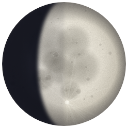
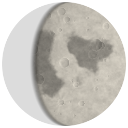
Secret question, private test link, remembered prize; realistic moon; tidy numbers
Claude-Session: https://claude.ai/code/session_015z9AyawwLQyG9LCsoSgoHm

diff --git a/demo/index.html b/demo/index.html
@@ -76,7 +76,7 @@ h2{font:700 clamp(28px,6vw,46px)/1.12 var(--head);letter-spacing:-.025em;text-wr
 .hint i{width:6px;height:6px;border-radius:50%;background:var(--gold);box-shadow:0 0 10px var(--gold);animation:blink 2s infinite}
 
 /* numbers */
-.stats{display:grid;grid-template-columns:repeat(auto-fit,minmax(170px,1fr));gap:12px;text-align:left}
+.stats{display:grid;grid-template-columns:repeat(3,minmax(0,1fr));gap:12px;text-align:left}
 .stat{border:1px solid var(--line);border-radius:18px;padding:16px 18px;background:rgba(255,255,255,.03);display:grid;gap:2px;min-width:0}
 .stat b{font:700 clamp(22px,4.4vw,32px)/1.15 var(--head);letter-spacing:-.02em;font-variant-numeric:tabular-nums;word-break:keep-all}
 .stat span{color:var(--muted);font-size:14px}
@@ -157,6 +157,15 @@ h2{font:700 clamp(28px,6vw,46px)/1.12 var(--head);letter-spacing:-.025em;text-wr
 .shprev.loading::after{content:"Making it…";font:600 22px var(--script);color:var(--muted)}
 .shprev .rec{font:800 34px var(--head);color:var(--gold)}.shprev.loading:has(.rec)::after{content:none}
 
+/* question gate and test mode */
+.gfield{display:flex;gap:10px;width:min(420px,100%)}
+.gfield input{flex:1;min-width:0;border:1px solid var(--line);background:rgba(5,12,34,.6);color:var(--ink);border-radius:99px;padding:0 20px;font:600 16px var(--body);min-height:50px}
+.gfield input:focus{outline:2px solid var(--gold);outline-offset:2px}
+.gerr{color:#FFB3C7;font-weight:600}
+.gate.shake .gfield{animation:shake .4s}
+@keyframes shake{20%,60%{transform:translateX(-8px)}40%,80%{transform:translateX(8px)}}
+.testbar{position:fixed;left:50%;bottom:calc(10px + env(safe-area-inset-bottom,0px));transform:translateX(-50%);z-index:36;background:#3A2A06;color:#FFE3A3;border:1px solid rgba(255,210,122,.5);border-radius:99px;padding:6px 14px;font:600 12px var(--body);white-space:nowrap;pointer-events:none}
+
 /* end */
 .endtitle{font:700 clamp(54px,14vw,110px)/1.1 var(--script);background:linear-gradient(180deg,#FFF0C8,#FFD27A 50%,#FF9CC8);-webkit-background-clip:text;background-clip:text;color:transparent;filter:drop-shadow(0 6px 30px rgba(255,200,120,.25));padding:0 .15em}
 
@@ -164,7 +173,7 @@ h2{font:700 clamp(28px,6vw,46px)/1.12 var(--head);letter-spacing:-.025em;text-wr
 @keyframes tup{from{opacity:0;transform:translate(-50%,10px)}}
 #confetti{position:fixed;inset:0;pointer-events:none;z-index:30;width:100%;height:100%}
 
-@media (max-width:700px){.music{grid-template-columns:1fr}.stats{grid-template-columns:1fr 1fr;gap:10px}.stat{padding:12px 14px}.stat b{font-size:clamp(17px,5vw,20px)}.stat span{font-size:13px}}
+@media (max-width:700px){.music{grid-template-columns:1fr}.stats{grid-template-columns:1fr 1fr;gap:10px}.gfield{flex-direction:column}.stat{padding:12px 14px}.stat b{font-size:clamp(17px,5vw,20px)}.stat span{font-size:13px}}
 @media (prefers-reduced-motion:reduce){*,*::before,*::after{animation:none!important;transition:none!important}}
 </style>
 
@@ -185,7 +194,15 @@ h2{font:700 clamp(28px,6vw,46px)/1.12 var(--head);letter-spacing:-.025em;text-wr
   <p class="lead r" style="--i:2">It only shows up once a year. Clear the clouds and take a look.</p>
   <div class="meta r" style="--i:3"><span>Visibility <b>Excellent</b></span><span>Moon <b>Waxing gibbous</b></span><span>Best viewed <b>with sound on</b></span></div>
   <button class="next r" style="--i:4" id="lookUp" type="button">Look up <svg width="18" height="18" viewBox="0 0 24 24" fill="none" stroke="currentColor" stroke-width="2.2" stroke-linecap="round" aria-hidden="true"><path d="M12 19V5M6 11l6-6 6 6"/></svg></button>
-</div></section>
+</div>
+<form class="inner gate" id="gate" hidden novalidate>
+  <span class="script r" style="--i:0">one thing first</span>
+  <h2 class="r" style="--i:1">This sky was made for one person</h2>
+  <label class="lead r" style="--i:2" for="ga" id="gq"></label>
+  <div class="gfield r" style="--i:3"><input id="ga" type="text" autocomplete="off" autocapitalize="off" spellcheck="false" placeholder="Your answer"><button class="next" type="submit">Unlock</button></div>
+  <p class="note r" style="--i:4" id="gh"></p><p class="gerr" id="ge" role="alert" hidden>Not quite. Try again.</p>
+  <button class="again" id="gskip" type="button" hidden>Test mode: skip the question</button>
+</form></section>
 
 <!-- 1 · her name in the stars -->
 <section class="scene namesc" data-s="1" hidden><div class="inner">
@@ -246,9 +263,9 @@ h2{font:700 clamp(28px,6vw,46px)/1.12 var(--head);letter-spacing:-.025em;text-wr
   <p class="lead r" style="--i:2">Whatever it lands on is real. You get one spin.</p>
   <div class="wheel r" style="--i:3"><div class="pin" id="pin" aria-hidden="true"></div><canvas id="wheel" role="img" aria-label="Prize wheel"></canvas></div>
   <button class="next" id="spinBtn" type="button">Spin the wheel</button>
-  <div class="prize" id="prize" hidden aria-live="polite"><span class="script">you won</span><b id="prizeText"></b></div>
+  <div class="prize" id="prize" hidden aria-live="polite"><span class="script" id="prizeLead">you won</span><b id="prizeText"></b></div>
   <button class="next" id="toCard" type="button" hidden>Make my brag card <svg width="18" height="18" viewBox="0 0 24 24" fill="none" stroke="currentColor" stroke-width="2.2" stroke-linecap="round" aria-hidden="true"><path d="M5 12h14M13 6l6 6-6 6"/></svg></button>
-  <button class="again" id="again" type="button" hidden>Preview only: spin again</button>
+  <button class="again" id="again" type="button" hidden>Test mode: spin again</button>
 </div></section>
 
 <!-- 6 · brag card -->
@@ -275,6 +292,7 @@ h2{font:700 clamp(28px,6vw,46px)/1.12 var(--head);letter-spacing:-.025em;text-wr
 <div class="sheet" id="sheet" hidden role="dialog" aria-modal="true" aria-labelledby="shTitle"><div class="sheetin">
   <h3 id="shTitle"></h3><div class="shprev loading" id="shPrev"></div><div class="opts" id="shOpts"></div><p class="note" id="shNote"></p>
   <div class="row"><button class="next" id="shSave" type="button">Save</button><button class="next ghost" id="shClose" type="button">Close</button></div></div></div>
+<div class="testbar" id="testbar" hidden>Test mode · she won't see this · nothing you do here counts</div>
 <div class="toast" id="toast" hidden role="status"></div>
 <canvas id="confetti" aria-hidden="true"></canvas>
 
@@ -298,11 +316,26 @@ const CONFIG = {
     {t:"Canon in D",a:"Pachelbel",n:"for slow, soft moments",bpm:72,v:["F#5:2 E5:2 D5:2 C#5:2 B4:2 A4:2 B4:2 C#5:2 D5:2 C#5:2 B4:2 A4:2 G4:2 F#4:2 G4:2 E4:2 D5:1 C#5:1 D5:1 D4:1 C#4:1 A4:1 E4:1 F#4:1 D4:1 D5:1 C#5:1 B4:1 C#5:1 F#5:1 A5:1 B5:1 G5:1 F#5:1 E5:1 G5:1 F#5:1 E5:1 D5:1 C#5:1 B4:1 A4:1 G4:1 F#4:1 E4:1 G4:1 F#4:1 E4:1 D4:4","D3:2 A2:2 B2:2 F#2:2 G2:2 D2:2 G2:2 A2:2 D3:2 A2:2 B2:2 F#2:2 G2:2 D2:2 G2:2 A2:2 D3:2 A2:2 B2:2 F#2:2 G2:2 D2:2 G2:2 A2:2 D3:2 A2:2 B2:2 F#2:2 G2:2 D2:2 G2:2 A2:2 D2:4"]},
     {t:"Brahms' Lullaby",a:"Brahms",n:"to end the day softly",bpm:96,v:["E4:.5 E4:.5 G4:2 E4:.5 E4:.5 G4:2 E4:.5 G4:.5 C5:1 B4:1.5 A4:.5 A4:1 G4:1 D4:.5 E4:.5 F4:1 D4:1 D4:.5 E4:.5 F4:2 D4:.5 F4:.5 B4:.5 A4:.5 G4:1 B4:1 C5:2 C4:.5 C4:.5 C5:2 A4:.5 F4:.5 G4:2 E4:.5 C4:.5 F4:1 G4:1 A4:1 G4:2 C4:.5 C4:.5 C5:2 A4:.5 F4:.5 G4:2 E4:.5 C4:.5 F4:1 E4:.5 D4:.5 C4:3"]}],
   prizes: ["Shawarma on us","Movie night","Ice cream run","Surprise gift","Snacks of your choice","Breakfast in bed","A day with no chores","Pizza party"],
-  previewMode: true             // shows "spin again" for testing; set false for the real thing
+  slug: "demo",                 // part of the link; also keeps each surprise's memory separate
+  secret: {q:"Demo question: what colour is tonight's sky?",hint:"Demo answer: blue",h:[]},  // h = hashed answers; empty = no question
+  prizeIndex: null,             // the prize the wheel always lands on (0-7); null = pick once, then remember
+  testKey: ""                   // your private test link ends with #test-<testKey>
 };
 // ======================================================================
 Object.assign(CONFIG,{
- "previewMode": true
+ "slug": "demo",
+ "testKey": "b6ac4033",
+ "secret": {
+  "q": "Demo question: what colour is tonight's sky?",
+  "hint": "Demo answer: blue",
+  "h": [
[5 lines of base64/hex data omitted]
+  ]
+ }
 });
 
 const $=s=>document.querySelector(s), $$=s=>[...document.querySelectorAll(s)];
@@ -317,21 +350,26 @@ const TEMP=["#9DB4FF","#AFC3FF","#CAD8FF","#E4EAFF","#F8F7FF","#FFF4E8","#FFE6C8
 const pickT=()=>{let s=TW.reduce((a,b)=>a+b),r=Math.random()*s;for(let i=0;i<TEMP.length;i++){r-=TW[i];if(r<=0)return TEMP[i]}return TEMP[4]};
 const gauss=()=>{let u=0,v=0;while(!u)u=Math.random();while(!v)v=Math.random();return Math.sqrt(-2*Math.log(u))*Math.cos(2*Math.PI*v)};
 
-function makeMoon(MR,dpr){ // waxing gibbous, soft terminator, maria, subtle craters, a ray crater
-  const S=Math.ceil(MR*2+4),m=document.createElement("canvas");m.width=S*dpr;m.height=S*dpr;const c=m.getContext("2d");c.scale(dpr,dpr);const C=S/2;
-  c.save();c.beginPath();c.arc(C,C,MR,0,7);c.clip();
-  const bg=c.createRadialGradient(C-MR*.3,C-MR*.3,MR*.1,C,C,MR);bg.addColorStop(0,"#F4F1E8");bg.addColorStop(.7,"#DCD7CA");bg.addColorStop(1,"#B9B3A4");c.fillStyle=bg;c.fillRect(0,0,S,S);
-  for(const[x,y,r]of[[-.25,-.3,.38],[.15,-.35,.3],[.28,.05,.32],[-.05,.1,.26],[-.35,.25,.2],[.1,.42,.18],[-.15,-.05,.22]]){const gx=C+x*MR,gy=C+y*MR,rr=r*MR,mg=c.createRadialGradient(gx,gy,0,gx,gy,rr);mg.addColorStop(0,"rgba(120,116,104,.5)");mg.addColorStop(.7,"rgba(130,126,114,.3)");mg.addColorStop(1,"rgba(140,135,122,0)");c.fillStyle=mg;c.beginPath();c.arc(gx,gy,rr,0,7);c.fill();}
-  for(let i=0;i<70;i++){const a=Math.random()*7,d=Math.sqrt(Math.random())*MR*.93,x=C+Math.cos(a)*d,y=C+Math.sin(a)*d,r=Math.max(.5,MR*.06*Math.pow(Math.random(),2.2));const cg=c.createRadialGradient(x+r*.25,y+r*.25,0,x,y,r);cg.addColorStop(0,"rgba(90,86,76,.22)");cg.addColorStop(.8,"rgba(110,105,95,.12)");cg.addColorStop(1,"rgba(255,252,240,.18)");c.fillStyle=cg;c.beginPath();c.arc(x,y,r,0,7);c.fill();}
-  const tx=C+MR*.05,ty=C+MR*.62;c.strokeStyle="rgba(255,253,245,.10)";c.lineWidth=MR*.02;for(let k=0;k<14;k++){const a=Math.random()*7,l=rnd(.25,.8)*MR;c.beginPath();c.moveTo(tx,ty);c.lineTo(tx+Math.cos(a)*l,ty+Math.sin(a)*l);c.stroke();}
-  c.fillStyle="rgba(255,253,245,.55)";c.beginPath();c.arc(tx,ty,MR*.035,0,7);c.fill();
-  const img=c.getImageData(0,0,m.width,m.height),dd=img.data;for(let i=0;i<dd.length;i+=4){if(dd[i+3]){const n=(Math.random()-.5)*10;dd[i]+=n;dd[i+1]+=n;dd[i+2]+=n}}c.putImageData(img,0,0);
-  const sh=document.createElement("canvas");sh.width=m.width;sh.height=m.height;const s2=sh.getContext("2d");s2.scale(dpr,dpr);
-  s2.fillStyle="rgba(3,6,18,.9)";s2.beginPath();s2.arc(C,C,MR+2,Math.PI/2,Math.PI*1.5);s2.closePath();s2.fill();
-  s2.globalCompositeOperation="destination-out";s2.beginPath();s2.ellipse(C,C,MR*.42,MR+2,0,0,7);s2.fill();
-  c.globalCompositeOperation="source-atop";c.filter=`blur(${Math.max(1.2,MR*.05)}px)`;c.drawImage(sh,0,0,S,S);c.filter="none";
-  const limb=c.createRadialGradient(C+MR*.15,C,MR*.7,C,C,MR);limb.addColorStop(0,"rgba(0,0,0,0)");limb.addColorStop(1,"rgba(30,30,40,.4)");c.fillStyle=limb;c.fillRect(0,0,S,S);
-  c.restore();return m;
+function makeMoon(MR,dpr){ // waxing gibbous, lit per pixel like a sphere; maria, fine crater texture and a bright ray crater
+  const S=Math.ceil(MR*2+4),P=Math.round(S*dpr),m=document.createElement("canvas");m.width=m.height=P;const c=m.getContext("2d"),im=c.createImageData(P,P),D=im.data,C=P/2,R=MR*dpr;
+  let sd=20261028;const rand=()=>{sd=sd+0x6D2B79F5|0;let t=Math.imul(sd^sd>>>15,1|sd);t=t+Math.imul(t^t>>>7,61|t)^t;return((t^t>>>14)>>>0)/4294967296};
+  const G=128,grid=new Float32Array(G*G);for(let k=0;k<G*G;k++)grid[k]=rand();
+  const vn=(x,y)=>{x=(x%G+G)%G;y=(y%G+G)%G;const xi=Math.floor(x),yi=Math.floor(y),xf=x-xi,yf=y-yi,u=xf*xf*(3-2*xf),v=yf*yf*(3-2*yf),x1=(xi+1)%G,y1=(yi+1)%G,a=grid[yi*G+xi],b=grid[yi*G+x1],cc=grid[y1*G+xi],d=grid[y1*G+x1];return a+(b-a)*u+(cc-a)*v+(a-b-cc+d)*u*v};
+  const fbm=(x,y,o)=>{let t=0,a=.5,f=1;for(let k=0;k<o;k++){t+=a*vn(x*f,y*f);f*=2.03;a*=.5}return t};
+  const sm=(a,b,x)=>{x=Math.min(1,Math.max(0,(x-a)/(b-a)));return x*x*(3-2*x)};
+  const MARIA=[[-.32,-.38,.36],[.12,-.40,.22],[.32,-.10,.26],[.66,-.22,.14],[-.60,.05,.40],[-.22,.32,.26],[.28,.30,.16]];
+  const CR=[];for(let k=0;k<46;k++){const a=rand()*6.283,d=Math.sqrt(rand())*.92,r=.016+Math.pow(rand(),3)*.08;CR.push([Math.cos(a)*d,Math.sin(a)*d,r])}CR.push([-.05,.62,.05]);
+  const th=1.0,Lx=Math.sin(th),Lz=Math.cos(th);
+  for(let y=0;y<P;y++)for(let x=0;x<P;x++){const dx=(x+.5-C)/R,dy=(y+.5-C)/R,r2=dx*dx+dy*dy,k=(y*P+x)*4;if(r2>1+2/R){D[k+3]=0;continue}
+    const edge=Math.min(1,Math.max(0,(1-Math.sqrt(r2))*R+.5)),nz=Math.sqrt(Math.max(0,1-r2)),ndl=dx*Lx+nz*Lz;
+    let bias=0;for(const[mx,my,mr]of MARIA){bias+=Math.exp(-((dx-mx)**2+(dy-my)**2)/(mr*mr)*1.3)}
+    const mar=sm(.5,.68,fbm(dx*2.6+4.1,dy*2.6+1.7,5)*.9+Math.min(1,bias)*.42-.12);
+    let alb=.78-.24*mar+.12*(fbm(dx*12+3,dy*12+9,4)-.5)+.08*(fbm(dx*36+5,dy*36+1,3)-.5);
+    for(const[cx,cy,cr]of CR){const ox=dx-cx,oy=dy-cy,q=Math.hypot(ox,oy)/cr;if(q<1.25){const sh=ox/cr*Math.min(1,q);if(q<1){alb+=(-.12*sh-.025)*(1-mar*.5)}else{alb+=.05*(1.25-q)*4}}}
+    const tx=dx+.05,ty=dy-.62,td=Math.hypot(tx,ty);alb+=.06*Math.exp(-td*5)*(.6+.4*Math.sin(Math.atan2(ty,tx)*11));
+    const lit=sm(-.03,.16,ndl)*(.82+.18*Math.sqrt(Math.max(0,ndl))),val=Math.max(alb*lit,alb*.05),al=edge*Math.min(1,lit*1.25+.14);
+    D[k]=Math.min(255,val*262);D[k+1]=Math.min(255,val*255);D[k+2]=Math.min(255,val*240);D[k+3]=al*255;}
+  c.putImageData(im,0,0);return m;
 }
 function makeHorizon(w,h,dpr){ // dark land: rolling ground, bushes and a few palm trees
   const cv=document.createElement("canvas");cv.width=w*dpr;cv.height=h*dpr;const c=cv.getContext("2d");c.scale(dpr,dpr);c.fillStyle="#010208";c.strokeStyle="#010208";
@@ -520,7 +558,21 @@ function go(n){
     hooks[n]?.enter?.();const f=to.querySelector("h1,h2");if(f){f.tabIndex=-1;f.focus({preventScroll:true})}busy=false;},reduce?0:480);
 }
 scenes[0].classList.add("enter");
-$("#lookUp").onclick=()=>{AUDIO.init();SKY.clear();setTimeout(()=>go(1),reduce?0:900)};
+const TEST=!!CONFIG.testKey&&location.hash==="#test-"+CONFIG.testKey;
+const KEY=k=>"tsky:"+CONFIG.slug+":"+k,store={get(k){try{return localStorage.getItem(KEY(k))}catch(e){return null}},set(k,v){if(TEST)return;try{localStorage.setItem(KEY(k),v)}catch(e){}}};
+if(TEST)$("#testbar").hidden=false;
+const norm=t=>t.toLowerCase().normalize("NFKD").replace(/[\u0300-\u036f]/g,"").replace(/[^a-z0-9]+/g," ").trim();
+async function sha(t){const b=await crypto.subtle.digest("SHA-256",new TextEncoder().encode(t));return[...new Uint8Array(b)].map(x=>x.toString(16).padStart(2,"0")).join("")}
+const needGate=()=>CONFIG.secret&&CONFIG.secret.h&&CONFIG.secret.h.length&&store.get("unlock")!=="1";
+function enter(){AUDIO.init();SKY.clear();setTimeout(()=>go(1),reduce?0:900)}
+$("#lookUp").onclick=()=>{AUDIO.init();if(!needGate())return enter();
+  const cov=scenes[0].querySelector(".inner");cov.hidden=true;const g=$("#gate");$("#gq").textContent=CONFIG.secret.q;$("#gh").textContent=CONFIG.secret.hint||"";$("#gskip").hidden=!TEST;g.hidden=false;
+  scenes[0].classList.remove("enter");void scenes[0].offsetWidth;scenes[0].classList.add("enter");setTimeout(()=>$("#ga").focus(),400);};
+$("#gate").addEventListener("submit",async e=>{e.preventDefault();const v=norm($("#ga").value);if(!v)return;let ok=false;
+  try{ok=CONFIG.secret.h.includes(await sha(CONFIG.slug+":"+v))}catch(err){ok=false}
+  if(ok){store.set("unlock","1");$("#ge").hidden=true;enter();}
+  else{const g=$("#gate");$("#ge").hidden=false;g.classList.remove("shake");void g.offsetWidth;g.classList.add("shake");$("#ga").select();}});
+$("#gskip").onclick=enter;
 document.addEventListener("click",e=>{const b=e.target.closest("[data-next]");if(b){go(cur+1);return}
   if(cur>0&&!e.target.closest("button,a,.panel,.pol,.wheel,.cardimg,.lb")){SKY.meteor(e.clientX-80,e.clientY-50,true);if(cur===1)toast(["wish sent to the stars","the sky heard you","wish received","another wish, granted"][Math.floor(Math.random()*4)])}});
 $("#back").onclick=()=>go(cur-1);$("#replay").onclick=()=>go(1);
@@ -533,7 +585,7 @@ function buildBday(){let c=0;const sp=(txt,cls)=>`<span class="${cls||""}">`+txt
 /* 2 · numbers */
 $("#bornText").textContent=born.toLocaleDateString(undefined,{day:"numeric",month:"long",year:"numeric"});
 $("#sDay").textContent=born.toLocaleDateString(undefined,{weekday:"long"});
-const big=v=>v>=1e9?(v/1e9).toFixed(2)+" billion":Math.floor(v).toLocaleString();
+const big=v=>v>=1e9?(v/1e9).toFixed(2)+" billion":v>=1e6?(v/1e6).toFixed(2)+" million":Math.floor(v).toLocaleString();
 const vals=()=>{const ms=Date.now()-born,min=ms/6e4,days=ms/864e5;return{days,hours:ms/36e5,beats:min*80,km:days*2.57e6,laughs:days*17}};
 let liveT;function countUp(){$("#age").textContent=ageNow();clearInterval(liveT);const t0=performance.now(),dur=reduce?1:2200;
   (function f(now){const k=Math.min(1,(now-t0)/dur),e=1-Math.pow(1-k,4),v=vals();for(const el of $$("[data-k]"))el.textContent=big(v[el.dataset.k]*e);
@@ -618,9 +670,10 @@ let WON=null;
     ctx.beginPath();ctx.arc(r,r,r*.14,0,7);const hub=ctx.createRadialGradient(r-4,r-4,1,r,r,r*.14);hub.addColorStop(0,"#2A2F55");hub.addColorStop(1,"#01030B");ctx.fillStyle=hub;ctx.fill();ctx.lineWidth=4;ctx.strokeStyle="#FFD27A";ctx.stroke();}
   new MutationObserver(()=>{if(!sec.hidden&&!loop)requestAnimationFrame(draw)}).observe(sec,{attributes:true,attributeFilter:["hidden"]});
   function spin(){if(spinning)return;spinning=true;const btn=$("#spinBtn");btn.disabled=true;btn.textContent="Spinning…";$("#prize").hidden=true;$("#toCard").hidden=true;$("#again").hidden=true;
-    const win=Math.floor(Math.random()*n),jit=(Math.random()-.5)*a*.6,start=rot%(2*Math.PI),target=2*Math.PI*(6+Math.floor(Math.random()*2))-(win+.5)*a+jit,dur=reduce?1:5600,t0=performance.now(),ease=x=>1-Math.pow(1-x,4);
+    const saved=store.get("prize"),win=CONFIG.prizeIndex!=null?CONFIG.prizeIndex%n:saved!=null?+saved:Math.floor(Math.random()*n),jit=(Math.random()-.5)*a*.6,start=rot%(2*Math.PI),target=2*Math.PI*(6+Math.floor(Math.random()*2))-(win+.5)*a+jit,dur=reduce?1:5600,t0=performance.now(),ease=x=>1-Math.pow(1-x,4);
     (function step(now){const k=Math.min(1,(now-t0)/dur);rot=start+(target-start)*ease(k);const seg=Math.floor(rot/a);if(seg!==lastSeg){lastSeg=seg;AUDIO.tick();const p=$("#pin");p.classList.remove("tick");void p.offsetWidth;p.classList.add("tick")}
-      if(k<1)requestAnimationFrame(step);else{spinning=false;WON=P[win];$("#prizeText").textContent=WON;$("#prize").hidden=false;btn.hidden=true;$("#toCard").hidden=false;$("#again").hidden=!CONFIG.previewMode;AUDIO.chime();confetti();SKY.shower(5);}})(t0);}
+      if(k<1)requestAnimationFrame(step);else{spinning=false;WON=P[win];store.set("prize",String(win));$("#prizeText").textContent=WON;$("#prize").hidden=false;btn.hidden=true;$("#toCard").hidden=false;$("#again").hidden=!TEST;AUDIO.chime();confetti();SKY.shower(5);}})(t0);}
+  const had=store.get("prize");if(had!=null&&!TEST){const i=+had%n;rot=-(i+.5)*a;WON=P[i];$("#prizeLead").textContent="you already spun, and you won";$("#prizeText").textContent=WON;$("#prize").hidden=false;$("#spinBtn").hidden=true;$("#toCard").hidden=false;}
   $("#spinBtn").onclick=spin;$("#again").onclick=()=>{$("#spinBtn").hidden=false;$("#spinBtn").disabled=false;spin()};
   $("#toCard").onclick=()=>go(6);
 })();
